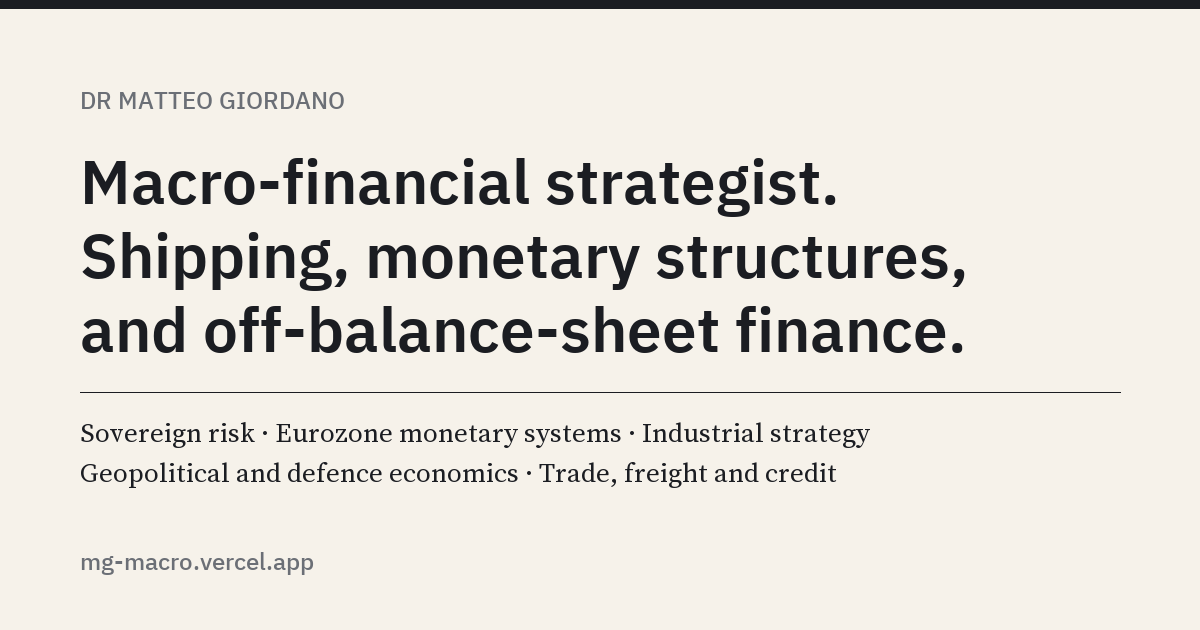
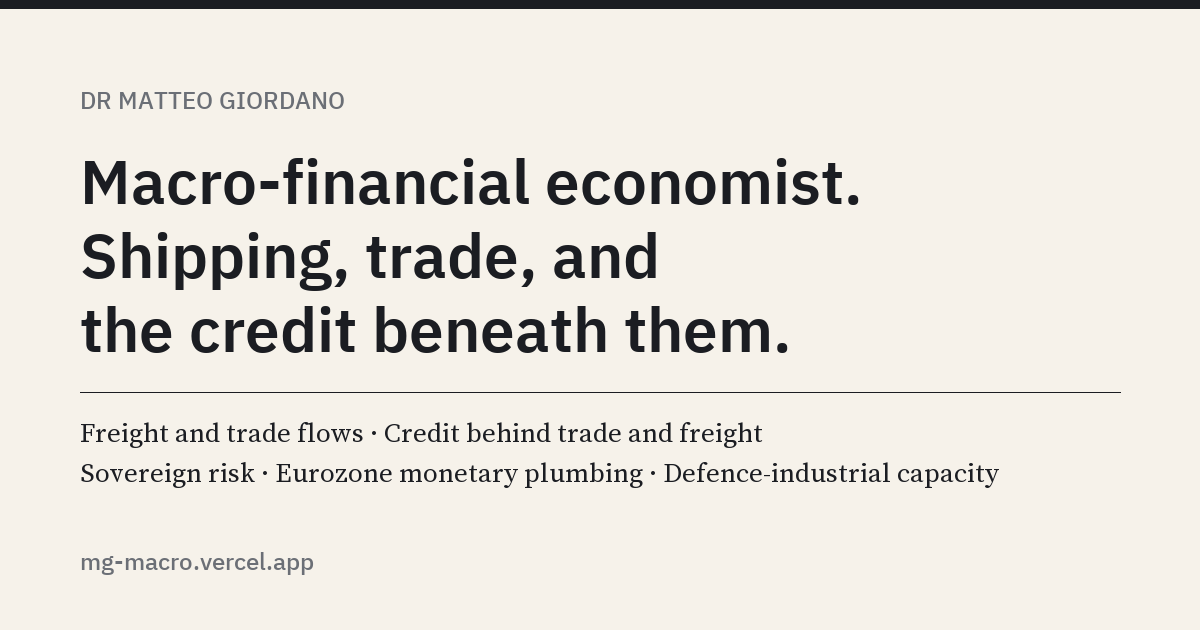
Macro-financial economist: positioning, role title, expertise and profile aligned with the work CV

diff --git a/about.html b/about.html
@@ -4,13 +4,13 @@
   <meta charset="utf-8">
   <meta name="viewport" content="width=device-width, initial-scale=1">
   <title>About — Dr Matteo Giordano</title>
-  <meta name="description" content="Macro strategist in the shipping industry; co-founder of Garrison Sterling; Associate Researcher, Global Climate Forum; PhD in economics, SOAS University of London.">
+  <meta name="description" content="Macro-financial economist: strategic finance and market intelligence in the shipping industry; co-founder of Garrison Sterling; Associate Researcher, Global Climate Forum; PhD in economics, SOAS University of London.">
   <!-- ROBOTS:on --><!-- /ROBOTS -->
   <link rel="canonical" href="https://mg-macro.vercel.app/about">
   <meta property="og:type" content="website">
   <meta property="og:site_name" content="Dr Matteo Giordano">
   <meta property="og:title" content="About — Dr Matteo Giordano">
-  <meta property="og:description" content="Macro strategist in the shipping industry; co-founder of Garrison Sterling; Associate Researcher, Global Climate Forum; PhD in economics, SOAS University of London.">
+  <meta property="og:description" content="Macro-financial economist: strategic finance and market intelligence in the shipping industry; co-founder of Garrison Sterling; Associate Researcher, Global Climate Forum; PhD in economics, SOAS University of London.">
   <meta property="og:url" content="https://mg-macro.vercel.app/about">
   <meta property="og:image" content="https://mg-macro.vercel.app/img/og-share.png">
   <meta property="og:image:width" content="1200">
@@ -67,7 +67,7 @@
       <div class="col">
         <p class="eyebrow reveal">About</p>
         <h1 class="page-title reveal">Background</h1>
-        <p class="bio mt-24 reveal">Macro strategist and financial analyst in the shipping industry. Co-founder and Director of <a href="https://garrisonsterling.com" rel="noopener">Garrison Sterling</a>, an independent defence economics firm, and Associate Researcher at the <a href="https://globalclimateforum.org/portfolio-item/matteo-giordano/" rel="noopener">Global Climate Forum</a>, Berlin, behind the balance-sheet models of the <a href="https://obfa-transform.eu" rel="noopener">OBFA-TRANSFORM Project</a> and the <a href="https://monetary-architecture.com/" rel="noopener">Monetary Architecture Online Tool</a>. PhD in economics, SOAS University of London, on monetary subordination in the euro area, under Prof. Costas Lapavitsas; lecturer there to 2025; defence economist at the <a href="https://www.ukdsc.org" rel="noopener">UKDSC</a>, inside the <a href="https://www.gov.uk/government/organisations/ministry-of-defence" rel="noopener">Ministry of Defence</a> ecosystem, to September 2026.</p>
+        <p class="bio mt-24 reveal">Macro-financial economist. Strategic finance and market intelligence advisor in the shipping industry. Co-founder and Director of <a href="https://garrisonsterling.com" rel="noopener">Garrison Sterling</a>, an independent defence economics firm, and Associate Researcher at the <a href="https://globalclimateforum.org/portfolio-item/matteo-giordano/" rel="noopener">Global Climate Forum</a>, Berlin, behind the balance-sheet models of the <a href="https://obfa-transform.eu" rel="noopener">OBFA-TRANSFORM Project</a> and the <a href="https://monetary-architecture.com/" rel="noopener">Monetary Architecture Online Tool</a>. PhD in economics, SOAS University of London, on monetary subordination in the euro area, under Prof. Costas Lapavitsas; lecturer there to 2025; defence economist at the <a href="https://www.ukdsc.org" rel="noopener">UKDSC</a>, inside the <a href="https://www.gov.uk/government/organisations/ministry-of-defence" rel="noopener">Ministry of Defence</a> ecosystem, to September 2026.</p>
         <nav class="cv-links mt-24 reveal" aria-label="CV and profiles">
           <a href="https://app.box.com/s/18pq9r7919gcxvu23hk5v4wda4hq6dq4" data-link="CV_URL" rel="noopener" target="_blank">Download CV</a>
           <a href="https://app.box.com/s/mgfbjyrewx6zxsc6ow1i5185mtrgsagt" data-link="CV_ACADEMIC_URL" rel="noopener" target="_blank">Academic CV</a>
@@ -82,10 +82,10 @@
       <div class="col">
         <div class="section__head reveal"><h2 class="section__title" id="expertise-title">Interests and expertise</h2></div>
         <div class="background reveal">
-          <p>PhD-level macro-financial economist with expertise in sovereign risk, industrial strategy, geopolitical and defence economics, and eurozone monetary systems. Experience delivering applied economic analysis and strategic intelligence for governments and industry stakeholders, combining quantitative modelling, industrial analysis, and macro-financial research.</p>
-          <p>Built balance-sheet models, Input-Output models, sector productivity frameworks and industrial assessments used to inform policy and procurement discussions within the UK defence ecosystem. Co-founder of <a href="https://garrisonsterling.com" rel="noopener">Garrison Sterling</a>, a defence economics and intelligence firm linking firm-level defence money to macro-economic modelling, and author of <a href="/cargo-and-collateral">Cargo &amp; Collateral</a>, a weekly publication on trade, freight and the credit beneath them. Published researcher with a track record in translating complex economic structures into decision-relevant analysis across policy, financial and strategic contexts.</p>
+          <p>Macro-financial economist who reads real sectors through their balance sheets: currently shipping, trade and the credit beneath them; previously defence-industrial economics within the UK Ministry of Defence ecosystem. Current work is strategic finance and market intelligence for a shipping group: driver-based financial models, freight-rate pass-through of EU ETS and fuel costs, and corridor-level sea-vs-road economics. Before that, the Input-Output, balance-sheet and scenario models behind UK defence industrial-capacity and procurement discussions.</p>
+          <p>Author of <a href="/cargo-and-collateral">Cargo &amp; Collateral</a>, a weekly publication reading trade and freight through balance sheets: who owes what to whom, and funded how. PhD in macro-finance (SOAS) with peer-reviewed work on eurozone collateral, repo and payment systems; co-founder of <a href="https://garrisonsterling.com" rel="noopener">Garrison Sterling</a>, a defence economics and intelligence firm.</p>
           <ul class="tags mt-20">
-            <li>Sovereign risk</li><li>Eurozone monetary systems</li><li>Industrial strategy</li><li>Geopolitical and defence economics</li><li>Trade, freight and credit</li><li>Balance-sheet modelling</li><li>Input-Output modelling</li><li>Sector productivity</li>
+            <li>Freight and trade flows</li><li>Credit behind trade and freight</li><li>Sovereign risk</li><li>Eurozone monetary plumbing</li><li>Defence-industrial capacity</li><li>Geopolitical risk</li><li>Balance-sheet modelling</li><li>Input-Output modelling</li>
           </ul>
         </div>
       </div>
@@ -95,7 +95,7 @@
       <div class="col">
         <div class="section__head reveal"><h2 class="section__title" id="positions-title">Positions</h2></div>
         <ul class="positions reveal">
-          <li><span><strong>Macro strategist and financial analyst</strong>, <span class="where">shipping industry</span></span><span class="when">2026–</span></li>
+          <li><span><strong>Strategic finance and market intelligence advisor</strong>, <span class="where">shipping industry. Driver-based financial models, freight-rate pass-through of EU ETS and fuel costs, corridor-level sea-vs-road economics</span></span><span class="when">2026–</span></li>
           <li><span><strong>Co-founder and Director</strong>, <span class="where"><a href="https://garrisonsterling.com" rel="noopener">Garrison Sterling</a>. Leads the modelling: economic-impact models and supplier-level metrics on the defence economy</span></span><span class="when">2026–</span></li>
           <li><span><strong>Associate Researcher</strong>, <span class="where">Global Climate Forum, Berlin. OBFA-TRANSFORM: balance-sheet modelling of the euro-area monetary architecture</span></span><span class="when">2023–</span></li>
           <li><span><strong>Senior Defence Economist</strong>, <span class="where">UKDSC, within the Ministry of Defence ecosystem. Input-Output and scenario models of the defence-industrial base; briefings to government and industry</span></span><span class="when">2025–2026</span></li>
@@ -136,7 +136,7 @@
         <a class="logo" href="/" aria-label="Dr Matteo Giordano, home">
               <span class="logo__text">Dr Matteo Giordano</span>
         </a>
-        <p class="footer__tag">Macro-financial strategy · Shipping, monetary structures, off-balance-sheet finance</p>
+        <p class="footer__tag">Macro-financial economist · Shipping, trade and credit · Monetary architecture</p>
       </div>
       <div class="footer__links">
         <span>© 2026 Dr Matteo Giordano</span>

diff --git a/index.html b/index.html
@@ -3,14 +3,14 @@
 <head>
   <meta charset="utf-8">
   <meta name="viewport" content="width=device-width, initial-scale=1">
-  <title>Dr Matteo Giordano — Macro-financial strategist</title>
-  <meta name="description" content="Macro-financial strategist: shipping, monetary structures, and off-balance-sheet finance. Co-founder of Garrison Sterling; Associate Researcher, Global Climate Forum; PhD, SOAS.">
+  <title>Dr Matteo Giordano — Macro-financial economist</title>
+  <meta name="description" content="Macro-financial economist who reads real sectors through their balance sheets: shipping, trade and the credit beneath them; defence-industrial economics; eurozone monetary architecture. Co-founder of Garrison Sterling; Associate Researcher, Global Climate Forum; PhD, SOAS.">
   <!-- ROBOTS:on --><!-- /ROBOTS -->
   <link rel="canonical" href="https://mg-macro.vercel.app/">
   <meta property="og:type" content="website">
   <meta property="og:site_name" content="Dr Matteo Giordano">
-  <meta property="og:title" content="Dr Matteo Giordano — Macro-financial strategist">
-  <meta property="og:description" content="Macro-financial strategist: shipping, monetary structures, and off-balance-sheet finance. Co-founder of Garrison Sterling; Associate Researcher, Global Climate Forum; PhD, SOAS.">
+  <meta property="og:title" content="Dr Matteo Giordano — Macro-financial economist">
+  <meta property="og:description" content="Macro-financial economist who reads real sectors through their balance sheets: shipping, trade and the credit beneath them; defence-industrial economics; eurozone monetary architecture. Co-founder of Garrison Sterling; Associate Researcher, Global Climate Forum; PhD, SOAS.">
   <meta property="og:url" content="https://mg-macro.vercel.app/">
   <meta property="og:image" content="https://mg-macro.vercel.app/img/og-share.png">
   <meta property="og:image:width" content="1200">
@@ -67,8 +67,8 @@
       <div class="col col--wide hero__grid">
         <div>
           <p class="eyebrow">Dr Matteo Giordano</p>
-          <h1 class="hero__title" id="hero-title">Macro-financial strategist. Shipping, monetary structures, and off-balance-sheet finance.</h1>
-          <p class="hero__lede">PhD-level macro-financial economist: sovereign risk, industrial strategy, geopolitical and defence economics, and eurozone monetary systems. Applied economic analysis for governments and industry, combining quantitative modelling, industrial analysis and macro-financial research.</p>
+          <h1 class="hero__title" id="hero-title">Macro-financial economist. Shipping, trade, and the credit beneath them.</h1>
+          <p class="hero__lede">I read real sectors through their balance sheets: currently shipping, trade and the credit beneath them; previously defence-industrial economics within the UK Ministry of Defence ecosystem. Today that means strategic finance and market intelligence for a shipping group; before that, the Input-Output, balance-sheet and scenario models behind UK defence industrial-capacity and procurement discussions.</p>
           <nav class="hero__links" aria-label="Contact and profiles">
             <a href="mailto:mg.macroeconomics@gmail.com" data-mailto>Email</a>
             <a href="https://cargoandcollateral.substack.com/" data-link="SUBSTACK_URL" rel="noopener" target="_blank">Cargo &amp; Collateral</a>
@@ -81,7 +81,7 @@
           <div class="glance__block">
             <p class="glance__label">Current roles</p>
             <ul>
-              <li>Macro strategist and financial analyst, <span class="where">shipping industry</span></li>
+              <li>Strategic finance and market intelligence advisor, <span class="where">shipping industry</span></li>
               <li>Co-founder and Director, <a href="https://garrisonsterling.com" rel="noopener">Garrison Sterling</a></li>
               <li>Associate Researcher, <a href="https://globalclimateforum.org/portfolio-item/matteo-giordano/" rel="noopener">Global Climate Forum</a></li>
               <li>Author, <a href="https://cargoandcollateral.substack.com/" data-link="SUBSTACK_URL" rel="noopener" target="_blank">Cargo &amp; Collateral</a></li>
@@ -90,7 +90,7 @@
           <div class="glance__block">
             <p class="glance__label">Expertise</p>
             <ul class="tags">
-              <li>Sovereign risk</li><li>Eurozone monetary systems</li><li>Industrial strategy</li><li>Geopolitical and defence economics</li><li>Trade, freight and credit</li><li>Balance-sheet modelling</li><li>Input-Output modelling</li><li>Sector productivity</li>
+              <li>Freight and trade flows</li><li>Credit behind trade and freight</li><li>Sovereign risk</li><li>Eurozone monetary plumbing</li><li>Defence-industrial capacity</li><li>Geopolitical risk</li><li>Balance-sheet modelling</li><li>Input-Output modelling</li>
             </ul>
           </div>
         </aside>
@@ -136,7 +136,7 @@
         <a class="logo" href="/" aria-label="Dr Matteo Giordano, home">
               <span class="logo__text">Dr Matteo Giordano</span>
         </a>
-        <p class="footer__tag">Macro-financial strategy · Shipping, monetary structures, off-balance-sheet finance</p>
+        <p class="footer__tag">Macro-financial economist · Shipping, trade and credit · Monetary architecture</p>
       </div>
       <div class="footer__links">
         <span>© 2026 Dr Matteo Giordano</span>

diff --git a/advisory.html b/advisory.html
@@ -113,7 +113,7 @@
         <a class="logo" href="/" aria-label="Dr Matteo Giordano, home">
               <span class="logo__text">Dr Matteo Giordano</span>
         </a>
-        <p class="footer__tag">Macro-financial strategy · Shipping, monetary structures, off-balance-sheet finance</p>
+        <p class="footer__tag">Macro-financial economist · Shipping, trade and credit · Monetary architecture</p>
       </div>
       <div class="footer__links">
         <span>© 2026 Dr Matteo Giordano</span>

diff --git a/publications.html b/publications.html
@@ -136,7 +136,7 @@
         <a class="logo" href="/" aria-label="Dr Matteo Giordano, home">
               <span class="logo__text">Dr Matteo Giordano</span>
         </a>
-        <p class="footer__tag">Macro-financial strategy · Shipping, monetary structures, off-balance-sheet finance</p>
+        <p class="footer__tag">Macro-financial economist · Shipping, trade and credit · Monetary architecture</p>
       </div>
       <div class="footer__links">
         <span>© 2026 Dr Matteo Giordano</span>

diff --git a/research.html b/research.html
@@ -117,7 +117,7 @@
         <a class="logo" href="/" aria-label="Dr Matteo Giordano, home">
               <span class="logo__text">Dr Matteo Giordano</span>
         </a>
-        <p class="footer__tag">Macro-financial strategy · Shipping, monetary structures, off-balance-sheet finance</p>
+        <p class="footer__tag">Macro-financial economist · Shipping, trade and credit · Monetary architecture</p>
       </div>
       <div class="footer__links">
         <span>© 2026 Dr Matteo Giordano</span>

diff --git a/research/balance-sheet-modelling.html b/research/balance-sheet-modelling.html
@@ -101,7 +101,7 @@
         <a class="logo" href="/" aria-label="Dr Matteo Giordano, home">
               <span class="logo__text">Dr Matteo Giordano</span>
         </a>
-        <p class="footer__tag">Macro-financial strategy · Shipping, monetary structures, off-balance-sheet finance</p>
+        <p class="footer__tag">Macro-financial economist · Shipping, trade and credit · Monetary architecture</p>
       </div>
       <div class="footer__links">
         <span>© 2026 Dr Matteo Giordano</span>

diff --git a/research/eurozone.html b/research/eurozone.html
@@ -102,7 +102,7 @@
         <a class="logo" href="/" aria-label="Dr Matteo Giordano, home">
               <span class="logo__text">Dr Matteo Giordano</span>
         </a>
-        <p class="footer__tag">Macro-financial strategy · Shipping, monetary structures, off-balance-sheet finance</p>
+        <p class="footer__tag">Macro-financial economist · Shipping, trade and credit · Monetary architecture</p>
       </div>
       <div class="footer__links">
         <span>© 2026 Dr Matteo Giordano</span>

diff --git a/research/subordination.html b/research/subordination.html
@@ -100,7 +100,7 @@
         <a class="logo" href="/" aria-label="Dr Matteo Giordano, home">
               <span class="logo__text">Dr Matteo Giordano</span>
         </a>
-        <p class="footer__tag">Macro-financial strategy · Shipping, monetary structures, off-balance-sheet finance</p>
+        <p class="footer__tag">Macro-financial economist · Shipping, trade and credit · Monetary architecture</p>
       </div>
       <div class="footer__links">
         <span>© 2026 Dr Matteo Giordano</span>

diff --git a/404.html b/404.html
@@ -80,7 +80,7 @@
         <a class="logo" href="/" aria-label="Dr Matteo Giordano, home">
               <span class="logo__text">Dr Matteo Giordano</span>
         </a>
-        <p class="footer__tag">Macro-financial strategy · Shipping, monetary structures, off-balance-sheet finance</p>
+        <p class="footer__tag">Macro-financial economist · Shipping, trade and credit · Monetary architecture</p>
       </div>
       <div class="footer__links">
         <span>© 2026 Dr Matteo Giordano</span>

diff --git a/cargo-and-collateral.html b/cargo-and-collateral.html
@@ -93,7 +93,7 @@
         <a class="logo" href="/" aria-label="Dr Matteo Giordano, home">
               <span class="logo__text">Dr Matteo Giordano</span>
         </a>
-        <p class="footer__tag">Macro-financial strategy · Shipping, monetary structures, off-balance-sheet finance</p>
+        <p class="footer__tag">Macro-financial economist · Shipping, trade and credit · Monetary architecture</p>
       </div>
       <div class="footer__links">
         <span>© 2026 Dr Matteo Giordano</span>

diff --git a/disclaimer.html b/disclaimer.html
@@ -89,7 +89,7 @@
         <a class="logo" href="/" aria-label="Dr Matteo Giordano, home">
               <span class="logo__text">Dr Matteo Giordano</span>
         </a>
-        <p class="footer__tag">Macro-financial strategy · Shipping, monetary structures, off-balance-sheet finance</p>
+        <p class="footer__tag">Macro-financial economist · Shipping, trade and credit · Monetary architecture</p>
       </div>
       <div class="footer__links">
         <span>© 2026 Dr Matteo Giordano</span>

diff --git a/research/defence-economics.html b/research/defence-economics.html
@@ -98,7 +98,7 @@
         <a class="logo" href="/" aria-label="Dr Matteo Giordano, home">
               <span class="logo__text">Dr Matteo Giordano</span>
         </a>
-        <p class="footer__tag">Macro-financial strategy · Shipping, monetary structures, off-balance-sheet finance</p>
+        <p class="footer__tag">Macro-financial economist · Shipping, trade and credit · Monetary architecture</p>
       </div>
       <div class="footer__links">
         <span>© 2026 Dr Matteo Giordano</span>
